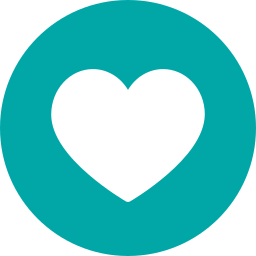
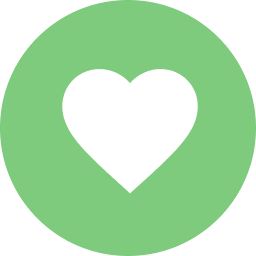
button color changes and swiping animation wip

diff --git a/src/Components/HomeScreen.js b/src/Components/HomeScreen.js
@@ -1,17 +1,17 @@
-import React, {useState, useEffect} from 'react'
+import React, { useState, useEffect } from 'react'
 import JobCard from './JobCard'
 import "./HomeScreen.css"
 
 
-function HomeScreen({likedJobs, setLikedJobs}) {
+function HomeScreen({ likedJobs, setLikedJobs }) {
 
-    const [jobs, setJobs] = useState([
-        {
-          id: 1, 
-          title: 'Software Engineer',
-          company: 'Google', 
-          location: 'Mountain View, CA',
-          description: 'Lorem ipsum dolor sit amet, consectetur adipiscing elit, sed do eiusmod \
+  const [jobs, setJobs] = useState([
+    {
+      id: 1,
+      title: 'Software Engineer',
+      company: 'Google',
+      location: 'Mountain View, CA',
+      description: 'Lorem ipsum dolor sit amet, consectetur adipiscing elit, sed do eiusmod \
                         tempor incididunt ut labore et dolore magna aliqua. Ut enim ad minim veniam, \
                         quis nostrud exercitation ullamco laboris nisi ut aliquip ex ea commodo consequat. \
                         Duis aute irure dolor in reprehenderit in voluptate velit esse cillum dolore eu fugiat \
@@ -29,81 +29,84 @@ function HomeScreen({likedJobs, setLikedJobs}) {
                         Duis aute irure dolor in reprehenderit in voluptate velit esse cillum dolore eu fugiat \
                         nulla pariatur. Excepteur sint occaecat cupidatat non proident, sunt in culpa qui officia \
                         deserunt mollit anim id est laborum.'
-        },
-        {
-          id: 2,
-          title: 'Product Manager',
-          company: 'Microsoft',
-          location: 'Redmond, WA',
-          description: 'def'
-        },
-        // etc
-      ]);
-    
-      const [currentJobIndex, setCurrentJobIndex] = useState(0);
+    },
+    {
+      id: 2,
+      title: 'Product Manager',
+      company: 'Microsoft',
+      location: 'Redmond, WA',
+      description: 'def'
+    },
+    // etc
+  ]);
 
-      const [currentScreen, setCurrentScreen] = useState('swiping');
-    
-      function handleLike() {
-        const job = jobs[currentJobIndex];
-        setLikedJobs([...likedJobs, job]);
-        nextJob();
-      }
-      
-      function handleDislike() {
-        nextJob();
-      }
-    
-      function nextJob() {
-        setCurrentJobIndex(currentJobIndex + 1);
-        if (currentJobIndex === jobs.length - 1) {
-            setCurrentScreen('no-more');
-        }
-      }
-    
-      let content;
+  const [currentJobIndex, setCurrentJobIndex] = useState(0);
 
-      if (currentScreen === 'swiping') {
-        content = (
-          <>
-            <div className="header-placeholder"></div>
-            <div className="home-screen-container">
-              < JobCard
-                job={jobs[currentJobIndex]}
-                onDislikeButton={handleDislike}
-                onLikeButton={handleLike}
-              />
+  const [currentScreen, setCurrentScreen] = useState('swiping');
+
+  function handleLike() {
+    const job = jobs[currentJobIndex];
+    setLikedJobs([...likedJobs, job]);
+    nextJob();
+  }
+
+  function handleDislike() {
+    nextJob();
+  }
+
+  function nextJob() {
+    setCurrentJobIndex((prevIndex) => {
+      const newIndex = prevIndex + 1;
+      if (newIndex >= jobs.length) {
+        setCurrentScreen('no-more');
+      }
+      return newIndex;
+    });
+  }
+
+  let content;
+
+  if (currentScreen === 'swiping') {
+    content = (
+      <>
+        <div className="header-placeholder"></div>
+        <div className="home-screen-container">
+          < JobCard
+            job={jobs[currentJobIndex]}
+            onDislikeButton={handleDislike}
+            onLikeButton={handleLike}
+          />
+        </div>
+        <div className="header-placeholder"></div>
+      </>
+    );
+  } else if (currentScreen === 'no-more') {
+    content = (
+      <>
+        <div className="header-placeholder"></div>
+        <div className="home-screen-container">
+          <div className="job-box">
+            <div className="job no-more">
+              <h2>No more jobs</h2>
+              <p>You've seen all available jobs. Check back later.</p>
             </div>
-            <div className="header-placeholder"></div>
-          </>
-        );
-      } else if (currentScreen === 'no-more') {
-        content = (
-          <>
-            <div className="header-placeholder"></div>
-            <div className="home-screen-container">
-              <div className="job-box">
-                <div className="job no-more">
-                  <h2>No more jobs</h2>
-                  <p>You've seen all available jobs. Check back later.</p>
-                </div>
-              </div>
-            </div>
-            <div className="header-placeholder"></div>
-          </>
-        );
-      }
-
-      return (
-        <>
-          <div className="job-finder">
-            {content}
-            <div style={{display: 'none'}}> Icons made by <a href="https://www.flaticon.com/authors/freepik" title="Freepik"> Freepik </a> from <a href="https://www.flaticon.com/" title="Flaticon">www.flaticon.com'</a></div>
           </div>
-        </>
-      );
+        </div>
+        <div className="header-placeholder"></div>
+      </>
+    );
+  }
+
+  return (
+    <>
+      <div className="job-finder">
+        {content}
+        <div style={{ display: 'none' }}> Icons made by <a href="https://www.flaticon.com/authors/freepik" title="Freepik"> Freepik </a> from <a href="https://www.flaticon.com/" title="Flaticon">www.flaticon.com'</a></div>
+      </div>
+    </>
+  );
 
 
 }
 
-export default HomeScreen
+export default HomeScreen;  

diff --git a/src/Components/JobCard.js b/src/Components/JobCard.js
@@ -1,40 +1,71 @@
-import React from 'react';
+import React, { useState, useEffect } from 'react'
 import "./JobCard.css";
 import SaveButton from "../img/click-to-save-job-button.png"
 import SkipButton from "../img/click-to-skip-job-button.png"
 
 function JobCard({ job, onDislikeButton, onLikeButton }) {
-  const handleDislike = () => {
-    onDislikeButton();
-  };
+    const [swiped, setSwiped] = useState(false);
+    const [swipeDirection, setSwipeDirection] = useState('');
 
-  const handleLike = () => {
-    onLikeButton();
-  };
+    useEffect(() => {
+        setSwiped(false);
+        setSwipeDirection('');
+    }, [job]);
 
-  return (
-    <div className="job-card">
-      <div className="job">
-        <h1 className="job-title">{job.title}</h1>
-        <p className="company">{job.company}</p>
-        <div className="break"></div>
-        <div className="other-attributes">
-          <p className="location">{job.location}</p>
+    const handleDislike = () => {
+        onDislikeButton();
+        setSwiped(true);
+        setSwipeDirection('left');
+    };
+
+    const handleLike = () => {
+        onLikeButton();
+        setSwiped(true);
+        setSwipeDirection('right');
+    };
+
+    const handleTransitionEnd = () => {
+        setSwiped(false);
+        setSwipeDirection('');
+    }
+
+    const getCardStyle = () => {
+        if (swiped) {
+            return {
+                transform: `translateX(${swipeDirection === 'right' ? '100%' : '-100%'})`,
+            };
+        }
+        return {};
+    };
+
+    return (
+        <div 
+            key={job.id}
+            className={`job-card ${swiped ? 'swiped' : ''}`} 
+            style={getCardStyle()}
+            onTransitionEnd={handleTransitionEnd}
+        >
+            <div className="job">
+                <h1 className="job-title">{job.title}</h1>
+                <p className="company">{job.company}</p>
+                <div className="break"></div>
+                <div className="other-attributes">
+                    <p className="location">{job.location}</p>
+                </div>
+                <div className="description-box">
+                    <p>{job.description}</p>
+                </div>
+            </div>
+            <div className="button-container">
+                <button className="swipe-btn skip-job" onClick={handleDislike}>
+                    <img className="button-img" src={SkipButton} alt="Skip Job" />
+                </button>
+                <button className="swipe-btn save-job" onClick={handleLike}>
+                    <img className="button-img" src={SaveButton} alt="Save           ob" />
+                </button>
+            </div>
         </div>
-        <div className="description-box">
-          <p>{job.description}</p>
-        </div>
-      </div>
-      <div className="button-container">
-        <button className="swipe-btn skip-job" onClick={handleDislike}>
-          <img className="button-img" src={SkipButton} alt="Skip Job" />
-        </button>
-        <button className="swipe-btn save-job" onClick={handleLike}>
-          <img className="button-img" src={SaveButton} alt="Save Job" />
-        </button>
-      </div>
-    </div>
-  );
+    );
 }
 
 export default JobCard;

diff --git a/src/Components/JobCard.css b/src/Components/JobCard.css
@@ -10,9 +10,9 @@
     border-radius: 30px;
     overflow: hidden;
     transition: transform 0.3s ease;
-  }
-  
-  .job {
+}
+
+.job {
     position: relative;
     display: flex;
     align-items: flex-start;
@@ -22,16 +22,21 @@
     max-width: 20em;
     min-height: 380px;
     max-height: 550px;
-  }
+}
 
-  .button-container {
+.job-card.swiped {
+    pointer-events: none;
+    /* Disable pointer events during animation */
+}
+
+.button-container {
     margin-top: auto;
     display: flex;
     justify-content: space-between;
     align-items: center;
-  }
-  
-  .swipe-btn {
+}
+
+.swipe-btn {
     display: flex;
     cursor: pointer;
     color: #fff;
@@ -41,42 +46,42 @@
     font-size: 1em;
     outline: none;
     transition: background-color 0.3s ease;
-  }
-  
-  
-  .job-title {
+}
+
+
+.job-title {
     text-align: left;
     margin-top: 0.3em;
     font-size: 1.8em;
     margin-bottom: 0;
-  }
-  
-  .company {
+}
+
+.company {
     font-size: 1.3em;
     margin-top: 0;
-  }
-  
-  .break {
+}
+
+.break {
     width: 100%;
     border-bottom: 1.25px solid #C3C3C3;
     margin-top: 0.7em;
-  }
-  
-  .other-attributes {
+}
+
+.other-attributes {
     margin: 0.85em 0 0.6em 0;
-  }
-  
-  .location {
+}
+
+.location {
     margin-bottom: 0;
-  }
-  
-  .description-box {
+}
+
+.description-box {
     overflow: auto;
     position: relative;
     padding: 0;
     text-align: start;
-  }
-  
-  ::-webkit-scrollbar {
+}
+
+::-webkit-scrollbar {
     display: none;
-  }
+}
